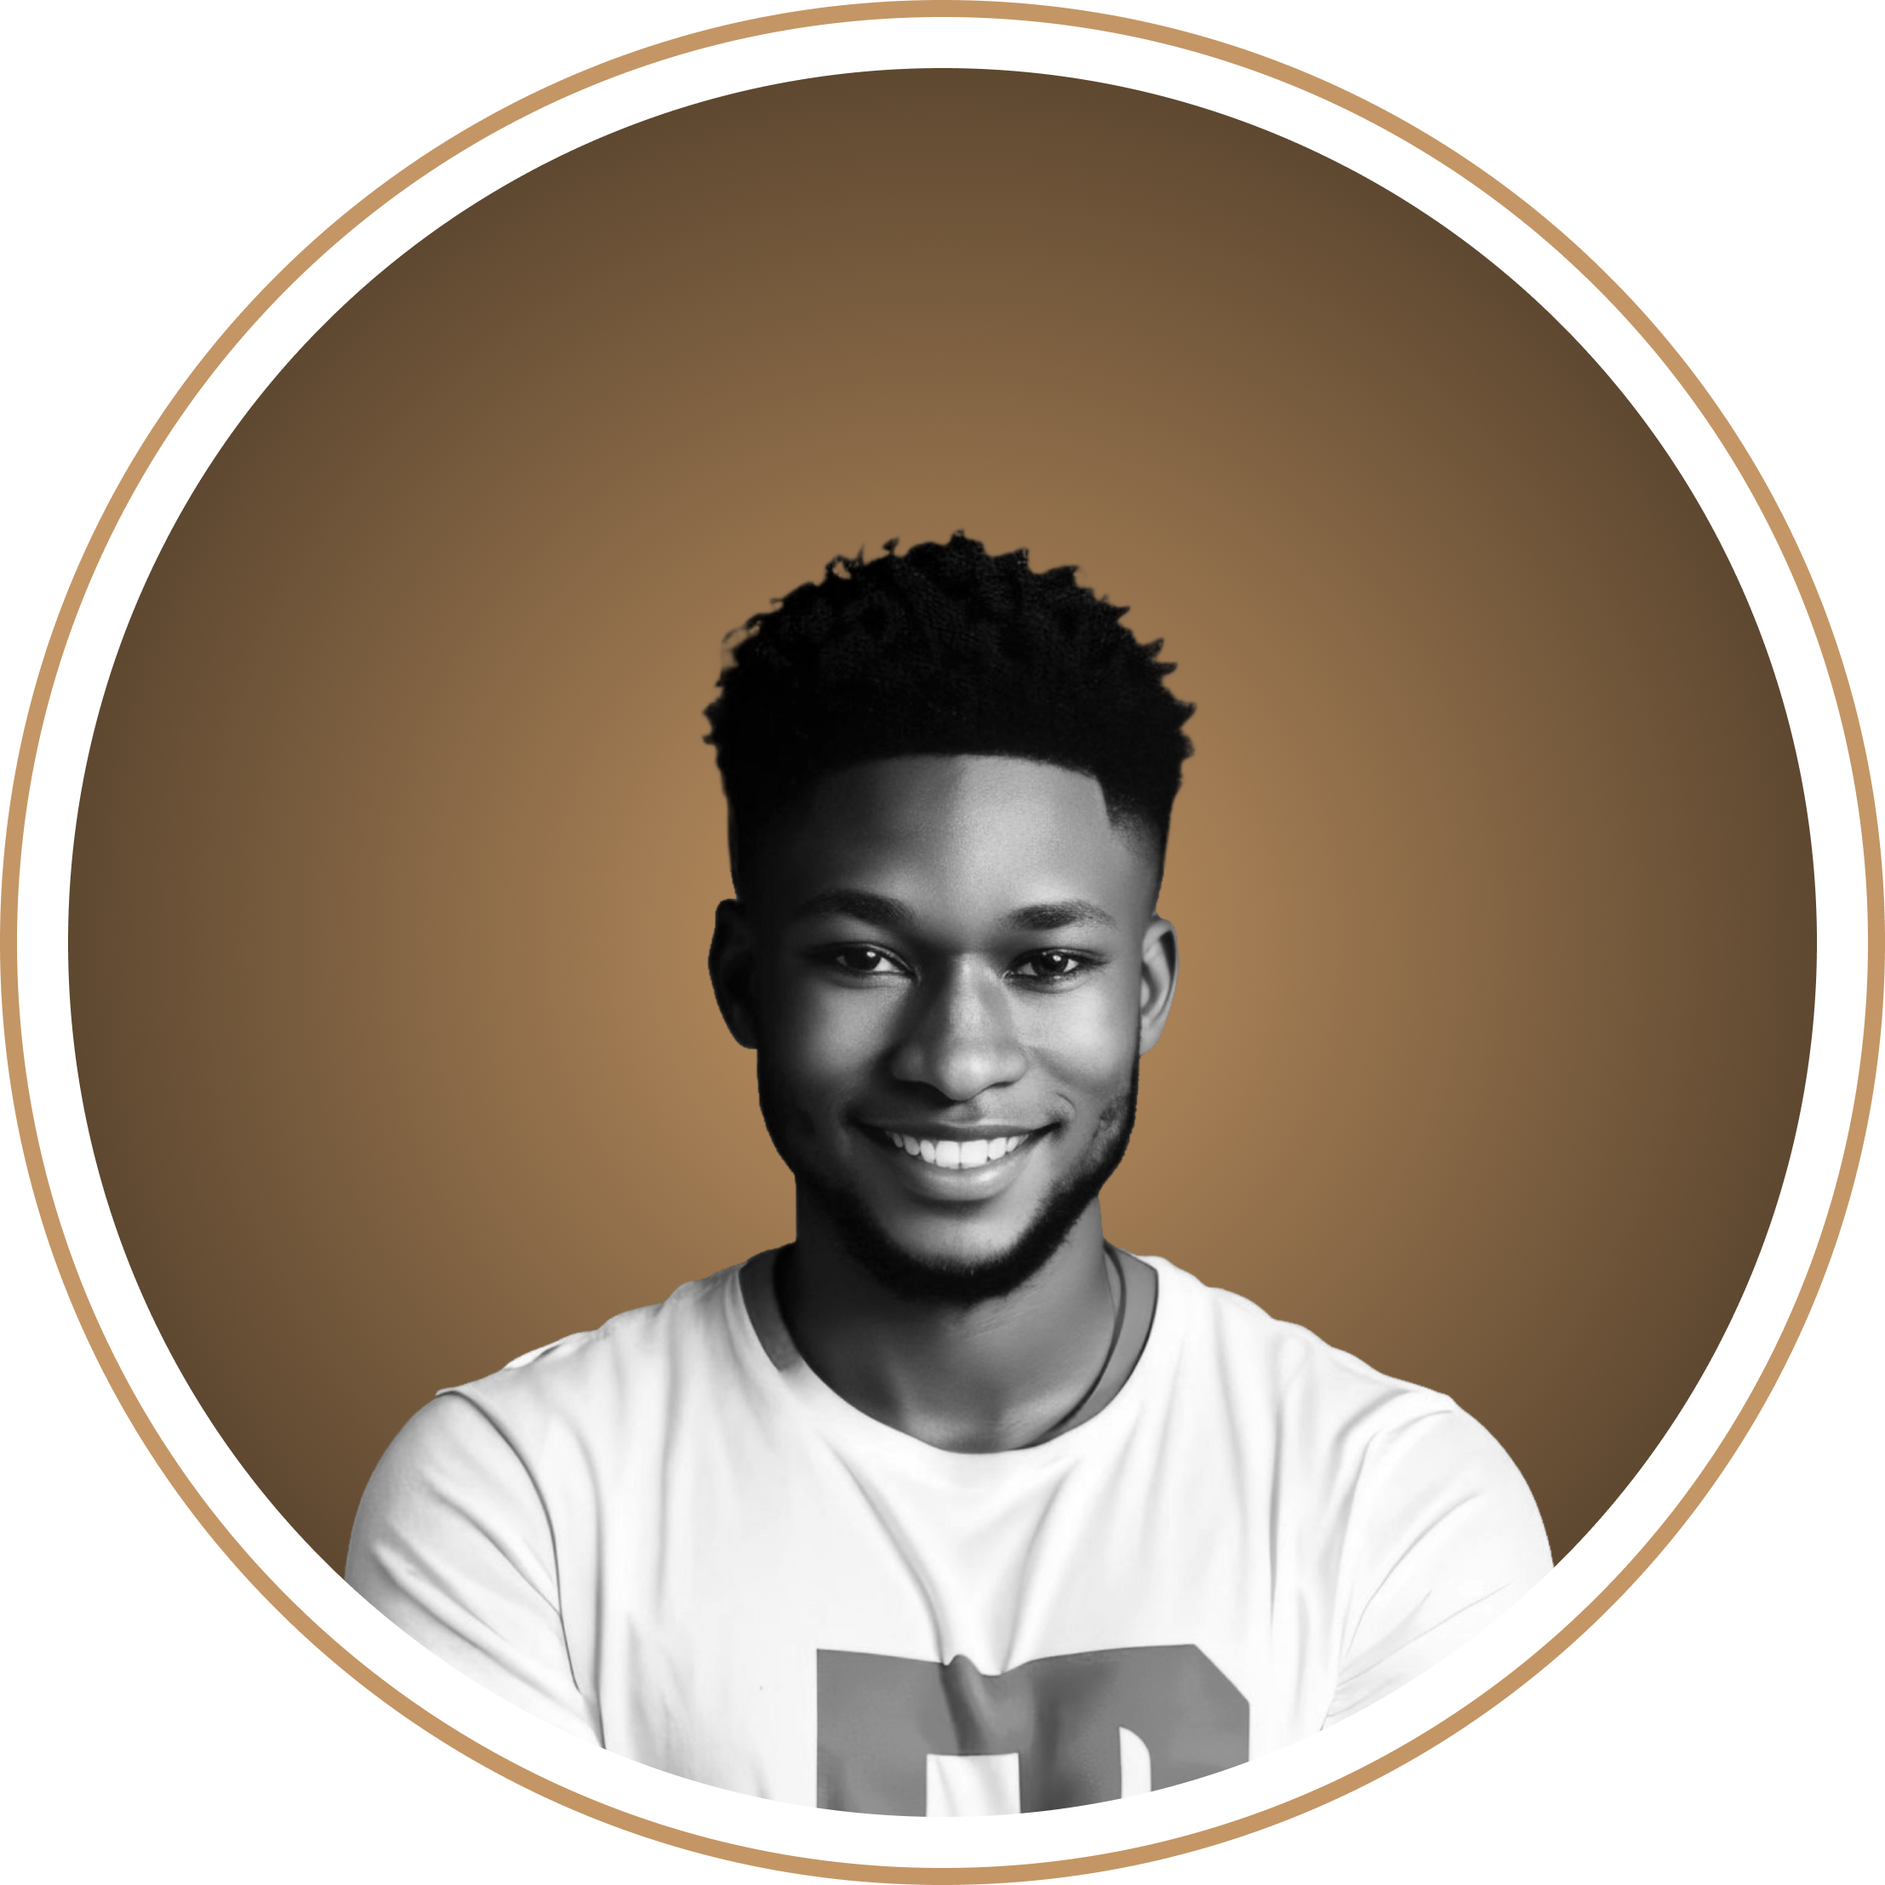
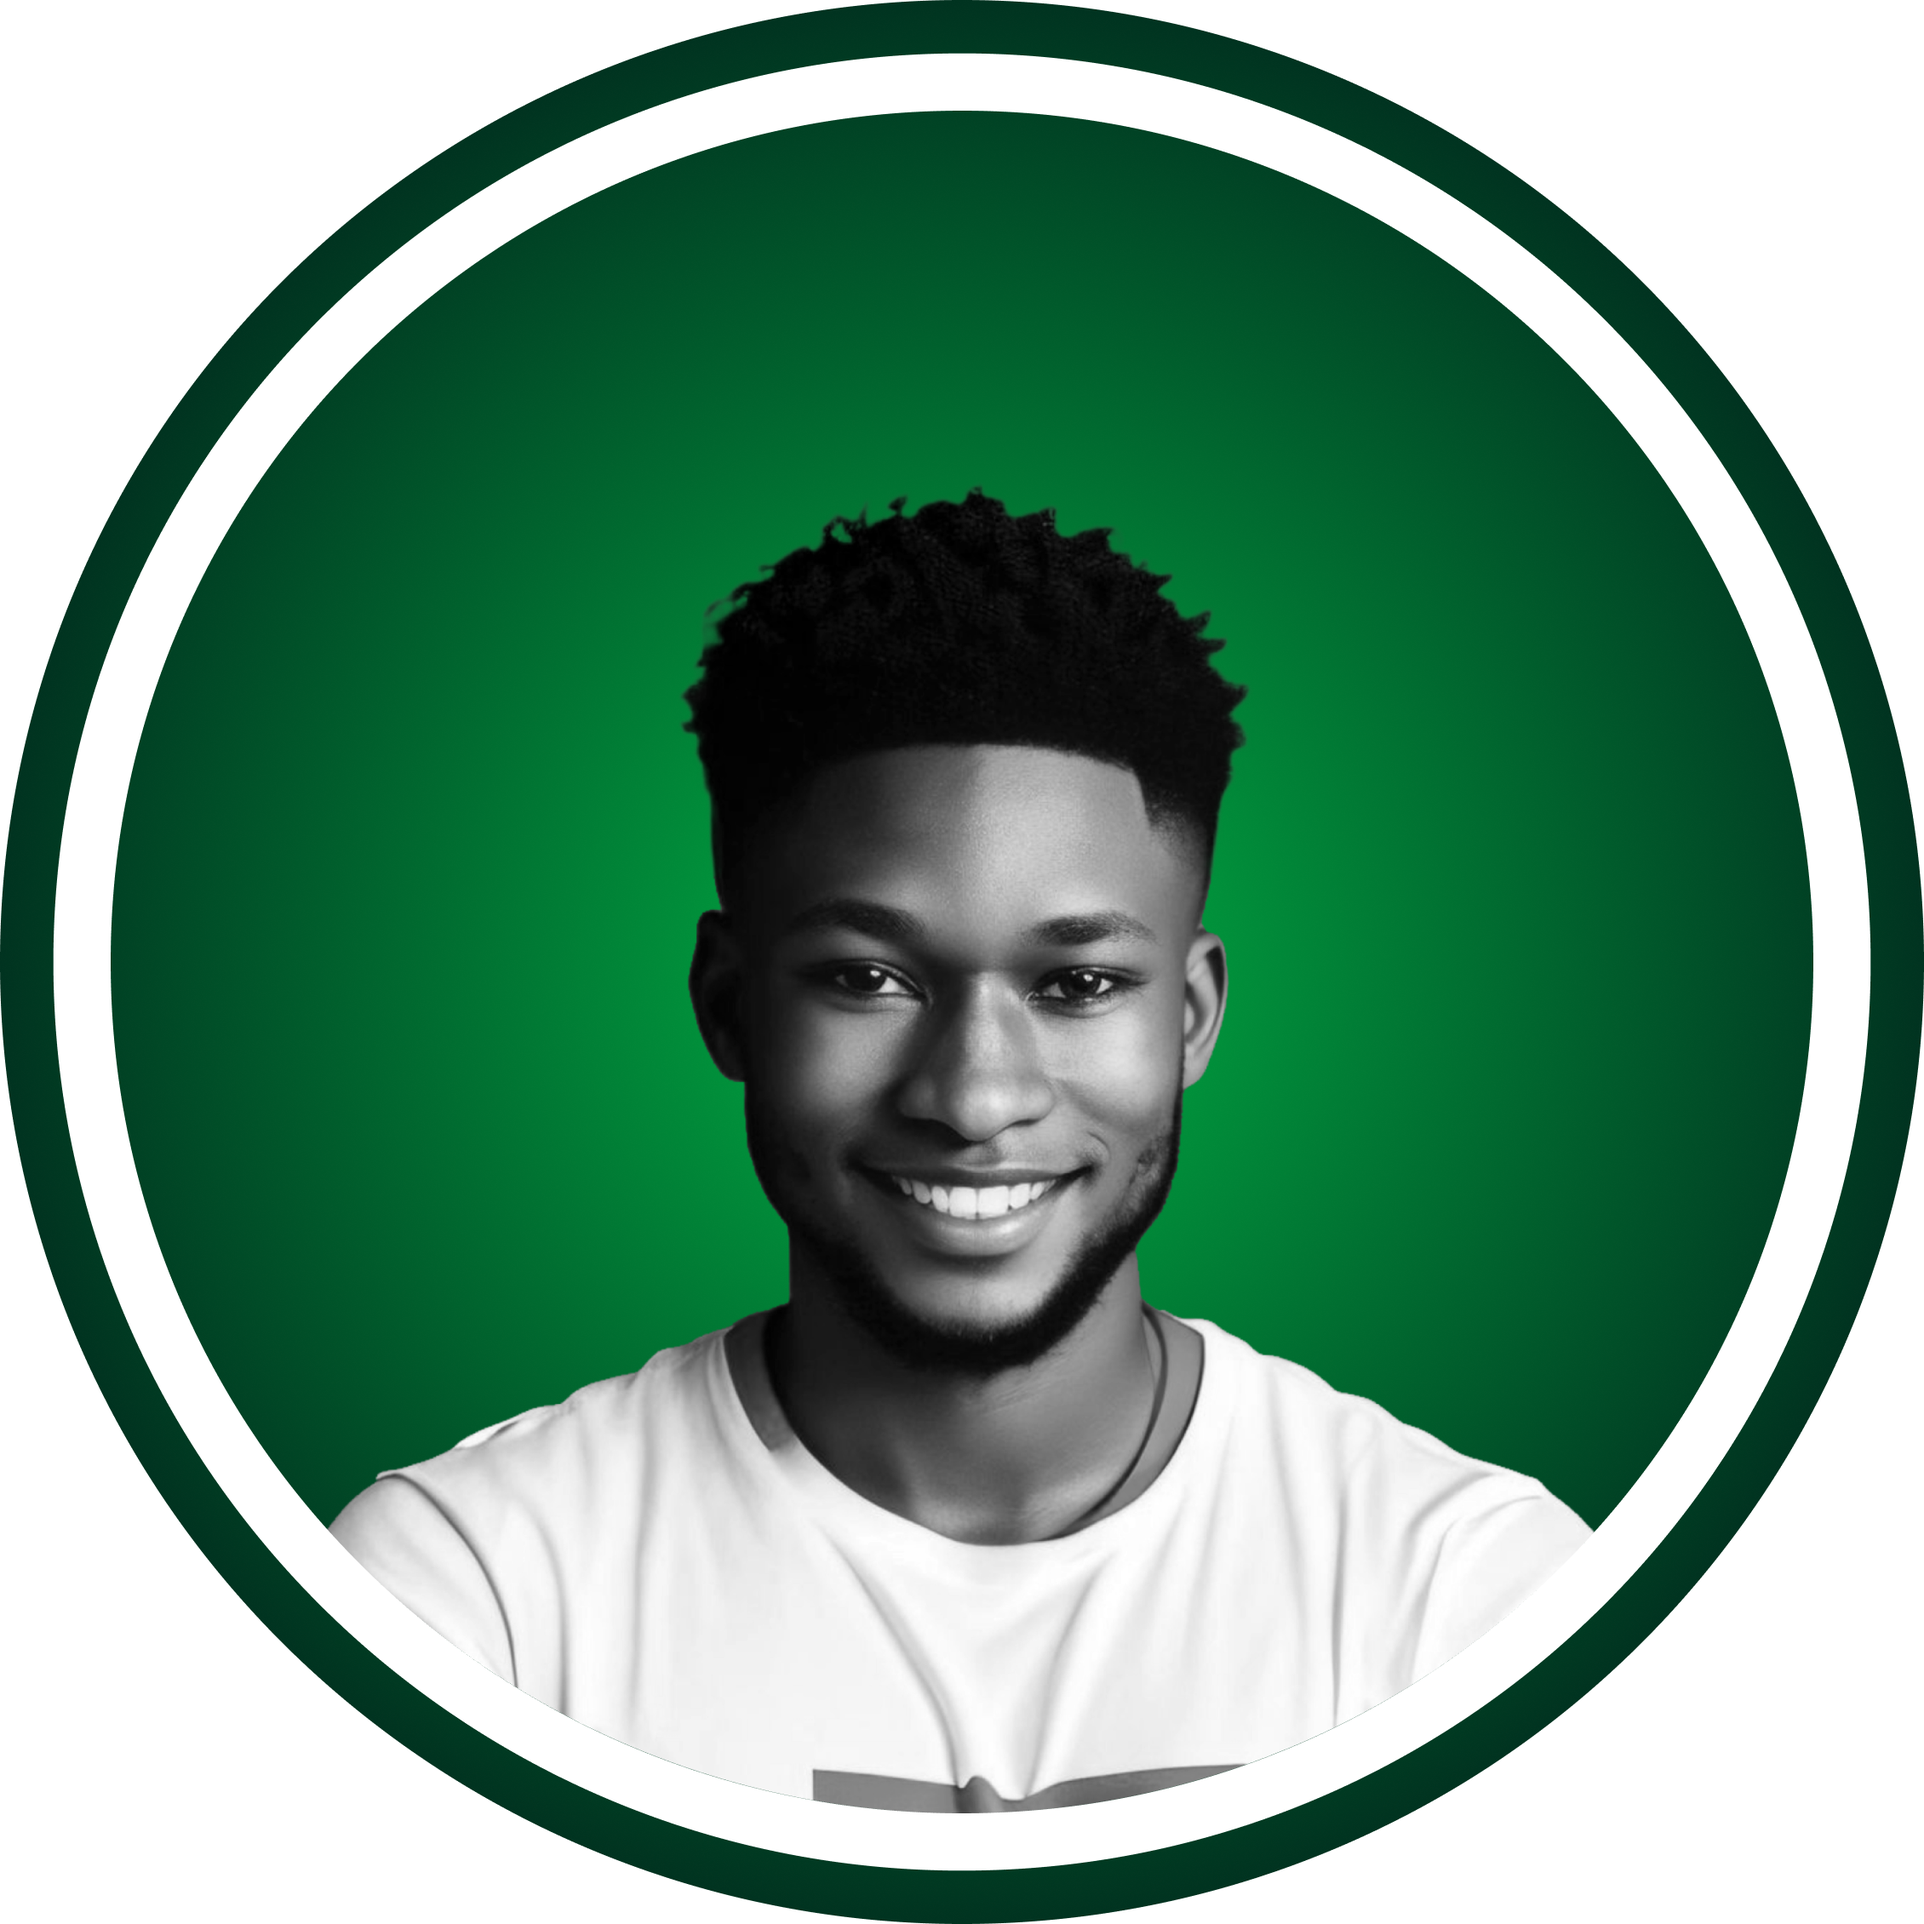
Update portfolio colors to green and adjust statistics text

diff --git a/src/components/Hero.tsx b/src/components/Hero.tsx
@@ -141,7 +141,7 @@ const Hero = ({ activeTab }: HeroProps) => {
           <div className="powered-label">
             <span className="text-[#1d1d1b]">I’M JOEL PILLAR</span>
             <div
-              className="relative group cursor-zoom-in w-[44px] h-[44px] sm:w-[48px] sm:h-[48px] rounded-full flex-shrink-0 flex items-center justify-center border border-[#D4A574] p-[3px]"
+              className="relative group cursor-zoom-in w-[44px] h-[44px] sm:w-[48px] sm:h-[48px] rounded-full flex-shrink-0 flex items-center justify-center border border-[#10b981] p-[3px]"
               onClick={() => setIsImageExpanded(true)}
             >
               <div className="w-full h-full rounded-full overflow-hidden bg-white">
@@ -334,13 +334,13 @@ const Hero = ({ activeTab }: HeroProps) => {
         }
         .premium-badge {
           position: relative;
-          background: linear-gradient(135deg, #e8e0d1 0%, #D4A574 25%, #e8e0d1 50%, #D4A574 75%, #e8e0d1 100%);
+          background: linear-gradient(135deg, #a7f3d0 0%, #10b981 25%, #a7f3d0 50%, #10b981 75%, #a7f3d0 100%);
           background-size: 200% 200%;
           animation: badge-shimmer 4s linear infinite;
           padding: 0.5rem 2.2rem;
           border-radius: 18px;
           border: 1.5px solid rgba(255, 255, 255, 0.5); /* More visible white outline */
-          box-shadow: 0 10px 30px rgba(212, 165, 116, 0.15),
+          box-shadow: 0 10px 30px rgba(16, 185, 129, 0.15),
                       inset 0 1px 2px rgba(255, 255, 255, 0.6), /* Inner glow outline */
                       0 0 0 1px rgba(0, 0, 0, 0.05); /* Outer thin dark line for definition */
           overflow: hidden;

diff --git a/src/components/CaseStudyDetail.tsx b/src/components/CaseStudyDetail.tsx
@@ -309,8 +309,8 @@ const CaseStudyDetail = ({ project, isOpen, onClose }: CaseStudyDetailProps) => 
             }
             .thumbnail-card.active {
               opacity: 1;
-              border-color: #D4A574;
-              box-shadow: 0 0 10px rgba(212, 165, 116, 0.4);
+              border-color: #10b981;
+              box-shadow: 0 0 10px rgba(16, 185, 129, 0.4);
             }
             
             .right-panel {
@@ -397,7 +397,7 @@ const CaseStudyDetail = ({ project, isOpen, onClose }: CaseStudyDetailProps) => 
               align-items: center;
               justify-content: center;
               gap: 0.8rem;
-              background: linear-gradient(90deg, #F3E4CF 0%, #CE9E70 100%);
+              background: linear-gradient(90deg, #6ee7b7 0%, #10b981 100%);
               color: #1A1A1A;
               padding: 1rem 2.5rem;
               border-radius: 100px;

diff --git a/src/components/About.tsx b/src/components/About.tsx
@@ -28,11 +28,11 @@ const About = () => {
           <div className="stats-box">
             <div className="stat">
               <span className="stat-num">08</span>
-              <span className="stat-text">Product Design</span>
+              <span className="stat-text">Graphic Design</span>
             </div>
             <div className="stat">
               <span className="stat-num">05</span>
-              <span className="stat-text">Senior UI/UX</span>
+              <span className="stat-text">UI/UX Designer</span>
             </div>
           </div>
         </motion.div>
@@ -153,7 +153,7 @@ const About = () => {
         .stat-text {
           font-size: 0.85rem;
           text-transform: uppercase;
-          color: var(--color-tan, #d4a574);
+          color: var(--color-accent, #10b981);
           letter-spacing: 0.15rem;
           font-weight: 600;
         }

diff --git a/src/components/CaseStudies.tsx b/src/components/CaseStudies.tsx
@@ -369,7 +369,7 @@ const CaseStudies = ({ activeTab, onSelectProject }: CaseStudiesProps) => {
           font-size: 0.75rem;
           text-transform: uppercase;
           letter-spacing: 0.2rem;
-          color: #D4A574;
+          color: #10b981;
         }
         .section-title {
           font-size: clamp(2rem, 4vw, 3rem);
@@ -447,7 +447,7 @@ const CaseStudies = ({ activeTab, onSelectProject }: CaseStudiesProps) => {
           white-space: nowrap;
         }
         .badge.view-product {
-          background: linear-gradient(135deg, #F3E4CF 0%, #CE9E70 25%, #F3E4CF 50%, #CE9E70 75%, #F3E4CF 100%);
+          background: linear-gradient(135deg, #a7f3d0 0%, #10b981 25%, #a7f3d0 50%, #10b981 75%, #a7f3d0 100%);
           background-size: 200% 200%;
           animation: badge-shimmer 4s linear infinite;
           color: #1A1A1A;

diff --git a/src/components/Navigation.tsx b/src/components/Navigation.tsx
@@ -98,7 +98,7 @@ const Navigation = ({ activeTab, onTabChange }: NavigationProps) => {
         .active-indicator {
           position: absolute;
           inset: 0;
-          background: linear-gradient(180deg, #EAD6C0 0%, #D4A574 100%);
+          background: linear-gradient(180deg, #6ee7b7 0%, #10b981 100%);
           border-radius: 100px;
           z-index: 1;
           border: 1px solid rgba(255, 255, 255, 0.3);

diff --git a/src/index.css b/src/index.css
@@ -31,9 +31,9 @@
   --color-bg: #fcfbf8;
   --color-text: #1d1d1b;
   --color-text-muted: #6b6b6b;
-  --color-accent: #D4A574;
-  /* Anthropic signature tan */
-  --color-accent-hover: #c49665;
+  --color-accent: #10b981;
+  /* Green accent */
+  --color-accent-hover: #059669;
   --color-nav-bg: #1d1d1b;
   --color-border: rgba(0, 0, 0, 0.08);
   --color-dot: rgba(0, 0, 0, 0.1);
